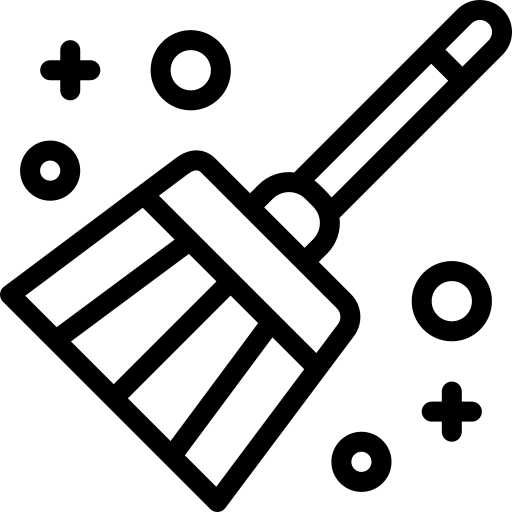
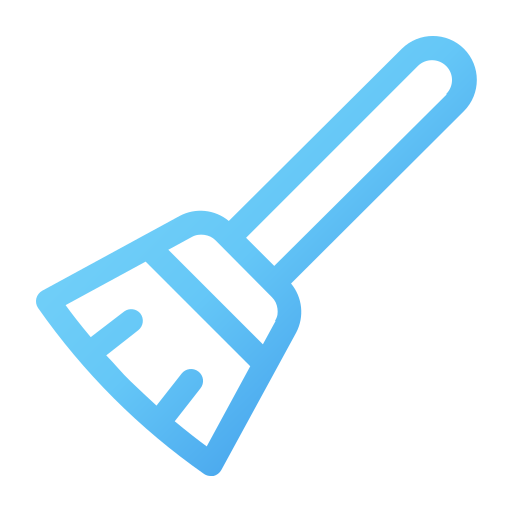
Adicionando limpeza das salas

diff --git a/screens/telaColaborador.tsx b/screens/telaColaborador.tsx
@@ -1,56 +1,44 @@
-import { Text, View, StyleSheet, FlatList, ActivityIndicator, Animated, Easing } from "react-native";
+import { Text, View, StyleSheet, FlatList, ActivityIndicator, Image } from "react-native";
 import { TouchableOpacity } from "react-native";
 import { useState, useEffect, useRef } from "react";
 import { CarregarSalas } from "../types/salas"
 import { obterToken } from "../services/servicoTokken";
 import { Ionicons } from '@expo/vector-icons';
-import { obterSalas, obterSalasporID } from "../services/servicoSalas"
+import { Menu, MenuOption, MenuTrigger, MenuOptions } from "react-native-popup-menu";
+import { obterSalas, obterSalasporID, obterUsers } from "../services/servicoSalas";
 import api from "../api/api";
+import { fi } from "date-fns/locale";
 
 function TelaColaborador(){
     const [salas, setSalas] = useState<CarregarSalas[]>([])
     const [carregando, setCarregando] = useState(true)
     const [grupo, setGrupo] = useState<boolean>()
     const [visivelid, setVisivelID] = useState<number | null>()
+    const [usuario, setUsuario] = useState(null)
 
 
-    const limpar = async (id) => {
+    const obterUser = async() => {
+        const resposta = await api.get('accounts/current_user')
+        const resposavel = resposta.data.username
+        setUsuario(resposavel)
+    
+    }
+
+    const comecarLimpeza = async (qr_code_id : any) => {
         try {
-            const token = await obterToken();
-            const resposta = await api.post(`salas/${id}/marcar_como_limpa/`, {}, {
-                headers : {
-                    'Content-Type' : 'application/json',
-                    'Authorization' : `Token ${token}`
-                }
-            })
-            const respostalimpa = await api.get(`salas/${id}`)
-            const limpa = respostalimpa.data.status_limpeza
-            if (limpa === "Limpa") {
-                console.log('Erro ao trocar status. Talvez a sala ja esteja limpa')
-                setSalas(salasAtuais => {
-                    return salasAtuais.map(sala => {
-                        if (sala.id === id) {
-                            return {...sala, isClean : true}
-                        }
-                        return sala
-                        
-                    })
-                })   
-            } else {
-                setSalas(salasAtuais => {
-                    return salasAtuais.map(sala => {
-                        if (sala.id === id) {
-                            return {...sala, isClean : !sala.isClean}
-                        }
-                        return sala
-                        
-                    })
-                }) 
-            }  
-        } catch (error) {
-            console.error('Erro ao trocar status da sala', error)
+            const formData = new FormData()
+            const token = await obterToken()
+        
+
+            formData.append('sala', qr_code_id)
+
+            const resposta = await api.post(`salas/${qr_code_id}/iniciar_limpeza/`, formData)
+            return resposta.status
+        } catch(error) {
+            console.error('Erro ao iniciar limpeza da sala', error)
         }
     }
+
     useEffect(() => {
         const group = async() => {
             try{
@@ -76,6 +64,7 @@ function TelaColaborador(){
             setCarregando(true);
             try{
                 const Salas = await obterSalas()
+                console.log(salas)
                 const SalasFormatadas = Salas.map(sala => ({
                     ...sala,
                     isClean: sala.status_limpeza === 'Limpa'
@@ -97,19 +86,24 @@ function TelaColaborador(){
                 <View style={{alignItems : 'center'}}>
                     <View style={style.CardSala}>
                         <View style={{borderBottomWidth : 1, width : '100%', justifyContent : 'flex-end', flexDirection : 'row', borderBottomColor : '#004A8D'}}>
-                            <View style={{width : '90%',  justifyContent : "center"}}>
-                                <Text>{item.nome_numero}</Text>
+                            <View style={{width : '90%',  justifyContent : "center",flex : 1}}>
+                                <Text style={{marginLeft : 5}}>{item.nome_numero}</Text>
                             </View>
-                            <View>
-                                <TouchableOpacity>
-                                    <Ionicons style={{marginRight : 5}} name="ellipsis-horizontal-outline" size={20}></Ionicons>
-                                </TouchableOpacity>
-                                <View>
-                                    <Text>
-                                        Clear
-                                    </Text>
-                                </View>
+                            <View style={{marginRight : 5}}>
+                                <Menu>
+                                    <MenuTrigger>
+                                        <View>
+                                            <Ionicons name="ellipsis-horizontal-outline" size={15}></Ionicons>
+                                        </View>
+                                    </MenuTrigger>
+                                    <MenuOptions customStyles={{optionsContainer : style.menu}}>
+                                        <MenuOption onSelect={() => comecarLimpeza(item.qr_code_id)}>
+                                            <Image style={{width : 25, height : 25}} source={require("../img/vassoura.png")}/>
+                                        </MenuOption>
+                                    </MenuOptions>
+                                </Menu>
                             </View>
+                            
                         </View>
                         <Text style={style.nomeinfo}>{item.capacidade}</Text>
                         <Text style={style.nomeinfo}>{item.localizacao}</Text>
@@ -117,13 +111,11 @@ function TelaColaborador(){
                         <View style={{flexDirection : 'row', alignItems : 'center', marginHorizontal : 10}}>
                             <Text>Status : </Text>
                             <Text style={{paddingLeft : 10, color:item.isClean ? 'rgba(46, 147, 46, 1)' : 'rgba(178, 65, 65, 1)', backgroundColor : item.isClean ? 'rgba(178, 246, 206, 1)' : 'rgba(248, 173, 173, 1)', paddingRight : 10,padding : 5, textAlign : 'center', borderRadius : 5}}>
-                                {item.isClean ? 'Limpa' : 'Limpeza Pendente'}
+                                {item.status_limpeza}
                             </Text>
                         </View>
                         {grupo ? (
-                            <TouchableOpacity onPress={() => limpar(item.id)} style={{backgroundColor : '#004A8D', padding : 5, marginLeft : 10, marginTop : 10, borderRadius: 5}}>
-                                <Text style={{color : 'white'}}>Limpar</Text>
-                            </TouchableOpacity>
+                            <View/>
                         ) : (
                             <TouchableOpacity style={{backgroundColor : '#004A8D', padding : 5, marginLeft : 10, marginTop : 10, borderRadius: 5}}>
                                 <Text style={{color : 'white'}}>
@@ -139,7 +131,7 @@ function TelaColaborador(){
     return(
         <View>
             <View style={{height : 100, justifyContent: 'center', borderBottomWidth: 1, borderBottomColor : '#F7941D'}}>
-                <Text style={{paddingLeft : 10, fontSize : 20, fontWeight : 'bold'}}>
+                <Text style={{paddingLeft : 10, fontSize : 20, fontWeight : 'bold', color: '#004A8D'}}>
                     Salas
                 </Text>
             </View>
@@ -176,7 +168,8 @@ const style = StyleSheet.create({
         backgroundColor : '#004A8D'
     },
     flatList : {
-        width : '100%'
+        width : '100%',
+        height : '88%'
     },
     nomeinfo : {
         paddingLeft : 10
@@ -190,5 +183,9 @@ const style = StyleSheet.create({
     },
     textoLimpar : {
         color : 'white',
+    },
+    menu : {
+        width : 50,
+        alignItems : 'center'
     }
 })

diff --git a/screens/telaAdminSalas.tsx b/screens/telaAdminSalas.tsx
@@ -126,13 +126,13 @@ export default function Salas () {
             <View>
                 <View style={style.flatList}>
                     <TouchableOpacity onPress={() => navigation.navigate("DetalhesSalas", {IdSala : item.qr_code_id}) } style={{backgroundColor : "white",flexDirection : 'row', borderRadius : 10, margin : 10, height : telaMobile ? 150 : 190, width : '90%'}}>
-                        <View style={{height : '100%', width : 100, borderWidth : 1, borderRightWidth : 0, borderTopLeftRadius : 10, borderBottomLeftRadius : 10}}>
+                        <View style={{height : '100%', width : 100, borderRightWidth : 0, borderRadius : 10}}>
                             <Image style={{flex : 1, resizeMode : 'cover', borderTopLeftRadius : 10, borderBottomLeftRadius : 10}} source={{uri : `https://zeladoria.tsr.net.br/${item.imagem}`}}></Image>
                         </View>
 
                         {/* view com o nome das salas */}
-                        <View style={{flex : 1,flexDirection : 'column', borderWidth : 1}}>
-                            <View style={{ width : '100%', flexDirection : 'row', justifyContent : 'space-around', borderBottomWidth : 1.5, paddingVertical : 5}}>
+                        <View style={{flex : 1,flexDirection : 'column'}}>
+                            <View style={{ width : '100%', flexDirection : 'row', justifyContent : 'space-around', borderBottomWidth : 1, paddingVertical : 5}}>
                                 <Text style={{fontSize : 18}}>{item.nome_numero}</Text>
 
                                 {/* View com as demais informações das salas */}

diff --git a/App.tsx b/App.tsx
@@ -61,9 +61,19 @@ function UserTabNavigator({Logout} : {Logout : () => Promise<void>}) {
     <tab.Navigator
       tabBarPosition="bottom"
       screenOptions={({ route }) => ({
+        tabBarIcon : ({focused, color, size}) => {
+          let iconName;
+          if (route.name === 'Sala') {
+            iconName = focused ? 'school' : 'school-outline'
+          } else if (route.name === 'Configurações') {
+            iconName = focused ? 'settings' : 'settings-outline';
+          }
+          return <Ionicons name={iconName} size={size} color={color} />;
+        },
         tabBarActiveTintColor: '#F7941D',
-        tabBarInactiveTintColor: 'white',
-        tabBarStyle: { paddingBottom: 5, height: 70, backgroundColor: '#004A8D' },
+        tabBarInactiveTintColor: 'black',
+        tabBarIndicatorStyle:{backgroundColor : '#F7941D', top : 0},
+        tabBarStyle: { paddingBottom: 5, height: 70, backgroundColor: 'white' },
         swipeEnabled: true,
       })}
     >
